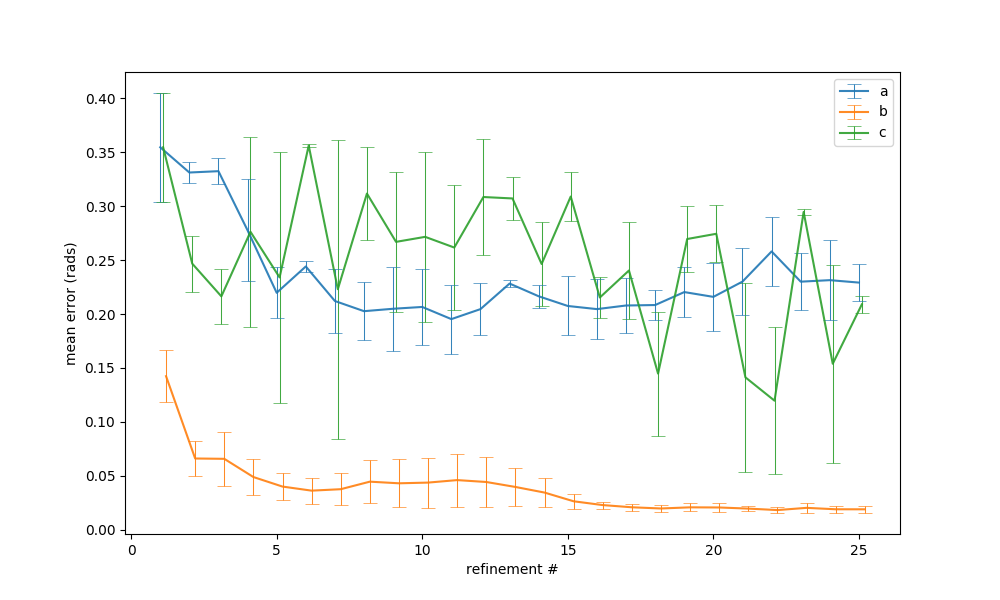
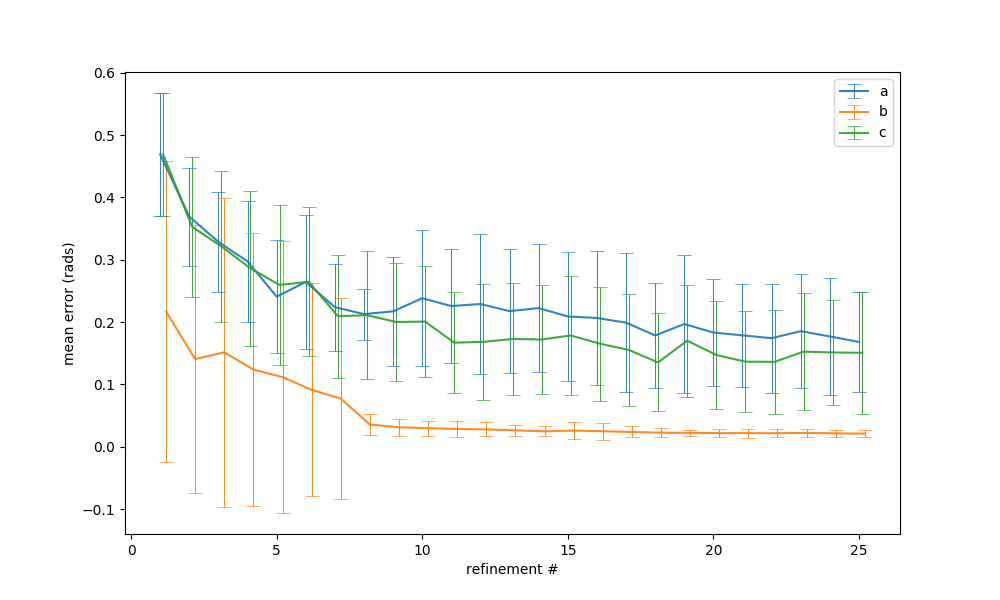
data for 25 trials is added

diff --git a/main.py b/main.py
@@ -25,12 +25,14 @@ I = np.array([2, 6])
 trial_number = 25
 
 np.random.seed(0)
-experiments_switch = np.zeros(10,)#np.ones(10,)#[0, 0, 0, 1, 0, 0, 0, 0, 0, 1]
+experiments_switch = np.ones(10,)#np.ones(10,)#[0, 0, 0, 1, 0, 0, 0, 0, 0, 1]
 for ii in range(len(experiments_switch)):
 	globals()["exp{}_average_error".format(ii+1)]=np.zeros([2,1])
 	exp6_average_error = np.zeros([3,1])
 	exp7_average_error = np.zeros([3,1])
 	exp9_average_error = np.zeros([3,1,1])
+	exp10_average_error = np.zeros([3,1,1])
+
 	
 if experiments_switch[0] ==1: # as a function of cycle period
 	features=np.ones(10,)
@@ -178,7 +180,8 @@ if experiments_switch[7] ==1: # delay
 		#print("error_without: ", exp2_average_error[0,0], "error with: ", exp2_average_error[1,0])
 
 if experiments_switch[8] == 1: # everlearn random mesh
-	test9_no = trial_number
+	refine_num = 25
+	test9_no = refine_num
 	babbling_times = np.array([1, 2.5, 5])
 	num_babbling_cases = babbling_times.shape[0]
 
@@ -243,9 +246,10 @@ if experiments_switch[9] == 1: # everlearn random
 			exp10_model_cl = inverse_mapping_fcn(cum_kinematics_cl, cum_activations_cl, prior_model = exp10_model_cl)
 
 errors_all = [exp1_average_error, exp2_average_error, exp3_average_error, exp4_average_error, exp5_average_error, exp6_average_error, exp7_average_error, exp8_average_error, exp9_average_error, exp10_average_error]
-#pickle.dump([errors_all],open("results/P_I/feedback_errors_P_I_V3.sav", 'wb')) # saving the results with only P
+pickle.dump([errors_all],open("results/P_I/feedback_errors_P_I_V3.sav", 'wb')) # saving the results with only P
 [errors_all] = pickle.load(open("results/P_I/feedback_errors_P_I_V3.sav", 'rb')) # loading the results with only P
 
+#import pdb; pdb.set_trace()
 plot_comparison_figures_fcn(errors_all)
 
 #import pdb; pdb.set_trace()
